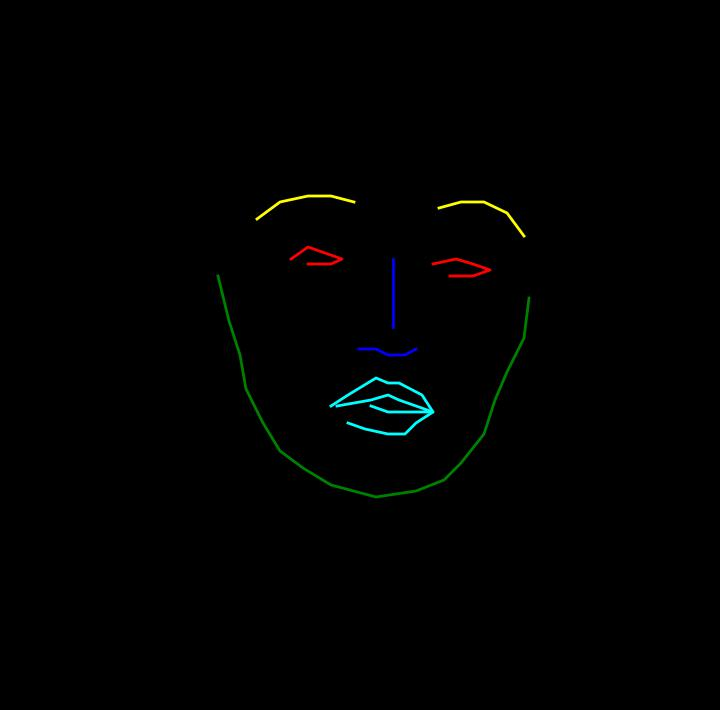
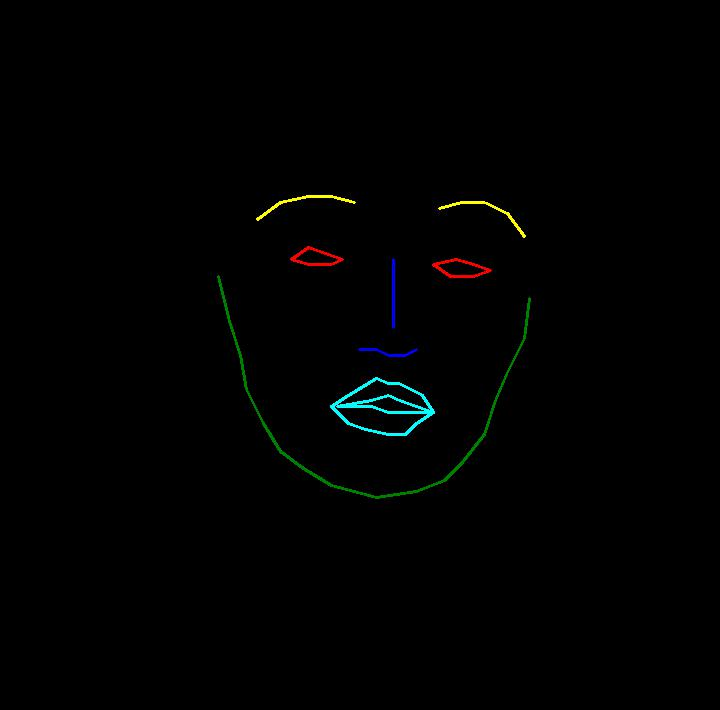
cv2 pipeline

diff --git a/preprocessor.py b/preprocessor.py
@@ -1,12 +1,12 @@
 import collections
-import face_alignment as fa
-import matplotlib.pyplot as plt
 import numpy as np
+
+import face_alignment as fa
+import cv2
 from skimage import io
 
-
 class LandmarkExtractor():
-    def __init__(self, landmark_type, device):
+    def __init__(self, landmark_type, device, extract_faces=False):
         '''
         :nparam landmark_type: value -> '2D' or '3D'
         :nparam device: value -> 'cpu' or 'cuda'
@@ -17,78 +17,61 @@ class LandmarkExtractor():
         self.landmark_type = fa.LandmarksType._2D if landmark_type == '2D' else fa.LandmarksType._3D
         self.face_alignment = fa.FaceAlignment(
             self.landmark_type, device=device)
-
-        self.plot_style = dict(marker='o',
-                               markersize=0,
-                               linestyle='-',
-                               lw=1)
-
+        self.extract_faces = extract_faces
+        self.detected_faces = None
         self.pred_type = collections.namedtuple(
             'prediction_type', ['slice', 'color'])
-
-        self.pred_types = {'face': self.pred_type(slice(0, 17), (0, 0.5, 0)),
-                           'eyebrow1': self.pred_type(slice(17, 22), (1.0, 1.0, 0)),
-                           'eyebrow2': self.pred_type(slice(22, 27), (1.0, 1.0, 0)),
-                           'nose': self.pred_type(slice(27, 31), (0, 0, 1)),
-                           'nostril': self.pred_type(slice(31, 36), (0, 0, 1)),
-                           'eye1': self.pred_type(slice(36, 42), (1, 0, 0)),
-                           'eye2': self.pred_type(slice(42, 48), (1, 0, 0)),
-                           'lips': self.pred_type(slice(48, 60), (0, 1, 1)),
-                           'teeth': self.pred_type(slice(60, 68), (0, 1, 1))
+        self.pred_types = {'face': self.pred_type(slice(0, 17), (0, 128, 0)),
+                           'eyebrow1': self.pred_type(slice(17, 22), (255, 255, 0)),
+                           'eyebrow2': self.pred_type(slice(22, 27), (255, 255, 0)),
+                           'nose': self.pred_type(slice(27, 31), (0, 0, 255)),
+                           'nostril': self.pred_type(slice(31, 36), (0, 0, 255)),
+                           'eye1': self.pred_type(slice(36, 42), (255, 0, 0)),
+                           'eye2': self.pred_type(slice(42, 48), (255, 0, 0)),
+                           'lips': self.pred_type(slice(48, 60), (0, 255, 255)),
+                           'teeth': self.pred_type(slice(60, 68), (0, 255, 255))
                            }
 
     def __call__(self, input_path):
         '''
-        :param input_path:
+        :nparam input_path:
         '''
 
         input_image = io.imread(input_path)
 
-        predicted_landmarks = self.face_alignment.get_landmarks_from_image(
-            input_image)[-1]
+        if self.extract_faces:
+            self.detected_faces = np.array([0,0,input_image.shape[0],input_image[1]])
 
-        image_with_landmarks = self.__generate_image_with_landmarks(
+        predicted_landmarks = self.face_alignment.get_landmarks_from_image(
+            input_image, detected_faces=self.detected_faces)[-1]
+
+        image_with_landmarks = self.__generate_image_with_cv2(
             input_image, predicted_landmarks)
 
         return image_with_landmarks
 
-    def __generate_image_with_landmarks(self, input_image, predicted_landmarks):
+    def __generate_image_with_cv2(self, input_image, predicted_landmarks):
+        '''
+        :nparam input_image: np.array H x W x C
+        :nparam predicted_landmarks: np.array 68 x 3 for 3D
+        '''
 
-        empty_image = np.zeros_like(input_image)
+        output_image = np.zeros_like(input_image)
 
-        fig = plt.gcf()
-        DPI = fig.get_dpi()
-        fig.set_size_inches(
-            empty_image.shape[1]/float(DPI), empty_image.shape[0]/float(DPI))
+        for name, pred_type in zip(self.pred_types, self.pred_types.values()):
+            points = predicted_landmarks[:, :2][pred_type.slice].astype(int)
 
-        plt.gca().set_axis_off()
-        plt.subplots_adjust(top=1, bottom=0, right=1, left=0,
-                            hspace=0, wspace=0)
-        plt.margins(0, 0)
-        plt.gca().xaxis.set_major_locator(plt.NullLocator())
-        plt.gca().yaxis.set_major_locator(plt.NullLocator())
+            for point1, point2 in zip(points, points[1:]):
+                cv2.line(output_image, tuple(point1), tuple(point2), pred_type.color, 2)
 
-        plt.imshow(empty_image, extent=[
-                   0, empty_image.shape[1], empty_image.shape[0], 0])
-
-        for pred_type in self.pred_types.values():
-            plt.plot(predicted_landmarks[pred_type.slice, 0],
-                     predicted_landmarks[pred_type.slice, 1],
-                     color=pred_type.color, **self.plot_style)
-
-        fig.canvas.draw()
-
-        output_image = np.fromstring(
-            fig.canvas.tostring_rgb(), dtype=np.uint8, sep='')
-        output_image = output_image.reshape(empty_image.shape)
+            if name in ['eye1', 'eye2', 'lips', 'teeth']:
+                cv2.line(output_image, tuple(points[0]), tuple(points[-1]), pred_type.color, 2)
 
         return output_image
 
 
 if __name__ == '__main__':
-    from skimage import io
-
     landmark_extractor = LandmarkExtractor(landmark_type='3D', device='cpu')
-    input_path = '../MarioNet/data/test.jpg'
-    landmarks = landmark_extractor(input_path)
-    io.imsave('../MarioNet/data/test_landmarks.jpg', landmarks)
+    input_path = '../MarioNet/data/test2.jpg'
+    image_with_landmarks = landmark_extractor(input_path)
+    io.imsave('../MarioNet/data/test2_landmarks.jpg', image_with_landmarks)

diff --git a/extract_landmarks.py b/extract_landmarks.py
@@ -1,0 +1,17 @@
+import os
+from glob import glob
+from tqdm import tqdm
+
+from preprocessor import LandmarkExtractor
+from skimage import io
+
+if __name__ == '__main__':
+    path_to_images = glob('/home/serk0/Business/new_live/VoxCeleb1/Faces/*/*/*/*')
+    landmark_extractor = LandmarkExtractor(landmark_type='3D', device='cpu')
+
+    for path_to_image in tqdm(path_to_images):
+        saving_path = path_to_image[:39] + '/Landmarks' + path_to_image[45:]
+        saving_folder = '/'.join(saving_path.split('/')[:-1])
+        os.makedirs(saving_folder, exist_ok=True)
+        image_with_landmarks = landmark_extractor(path_to_image)
+        io.imsave(saving_path, image_with_landmarks)
